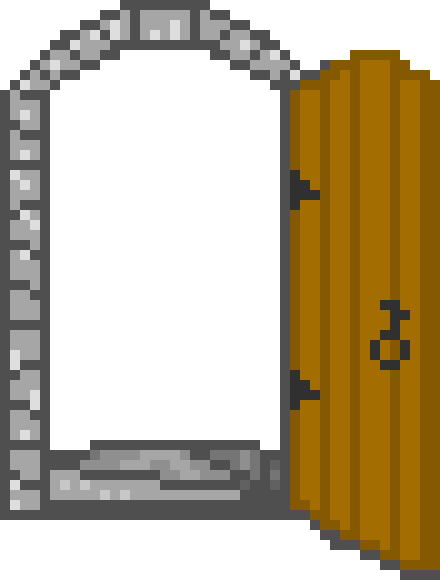
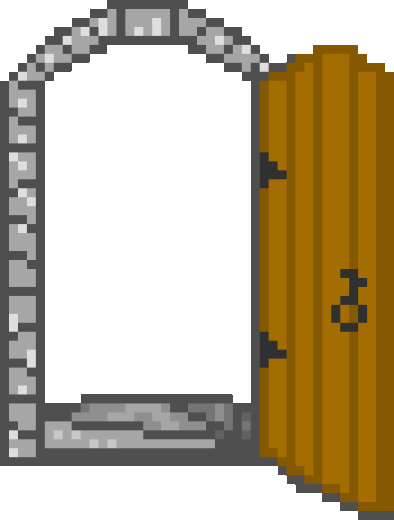
Basic transitions between levels have been implemented but must be improved.

diff --git a/classes/level.py b/classes/level.py
@@ -17,8 +17,9 @@ class Camera:
 
 class Level:
     # TODO implement camera scrolling from top to bottom of the self at the beginning
-    def __init__(self, walls: list[Block], moving_obj: list[MovingPlatform], decor: list[Decor],
-                 surface: pygame.Surface, start_pos: tuple[int, int]):
+    def __init__(self, num, walls: list[Block], moving_obj: list[MovingPlatform], decor: list[Decor],
+                 surface: pygame.Surface, start_pos: tuple[int, int], end_level: LevelEnd):
+        self.num = num
         self.blocks = walls
         self.moving_obj = moving_obj
         self.decor = decor
@@ -27,14 +28,19 @@ class Level:
         self.camera = Camera(surface)
         self.projectiles: list[Projectile] = []
         self.player = Player(*start_pos)
+        self.level_end = end_level
 
     def draw(self, surface: pygame.Surface):
         self.surf.fill('yellow')
-        self.player.draw(self.surf)
+
 
         for obj in self.blocks + self.moving_obj + self.projectiles + self.decor:
             obj.draw(self.surf)
+
+        self.level_end.draw(self.surf)
+        self.player.draw(self.surf)
         camera_surf = pygame.Surface(self.camera.display_size)
+        camera_surf.fill('yellow')
         camera_surf.set_colorkey('yellow')
         camera_surf.blit(self.surf, (0, 0), self.camera.scroll(self.player))
         surface.blit(pygame.transform.scale(camera_surf, (DISP_WIDTH, DISP_HEIGHT)), (0, 0))
@@ -60,7 +66,7 @@ class Level:
                 entity.rect.x = min(max(entity.rect.x, 0), self.surf.get_width() - self.player.rect.width)
                 entity.rect.y = min(max(entity.rect.y, 0), self.surf.get_height()- self.player.rect.height)
 
-    def game_cycle(self, surface: pygame.Surface, dt):
+    def game_cycle(self, surface: pygame.Surface, dt) -> bool:
 
         for event in pygame.event.get():
             if event.type == pygame.QUIT:
@@ -90,7 +96,12 @@ class Level:
         self.player.update(dt)
 
         self.clear()
+        return self.level_end.update(self.player)
 
     def clear(self):
         self.projectiles = list(filter(lambda i: not i.collided,
                                        self.projectiles))
+
+
+
+

diff --git a/scripts/map_generation.py b/scripts/map_generation.py
@@ -2,7 +2,8 @@ from classes.level import *
 from pytmx.util_pygame import load_pygame
 
 
-def gen_level(path: str) -> Level:
+def gen_level(num: int) -> Level:
+    path = 'level' + str(num)
     level_map = load_pygame(f'levels/{path}.tmx')
 
     obj_layer = level_map.get_layer_by_name('GameObjects')
@@ -12,27 +13,37 @@ def gen_level(path: str) -> Level:
     decor: list[Decor] = []
     moving_objs: list[MovingPlatform] = []
 
+    level_end: LevelEnd = None
     # Loading objects
     for obj in obj_layer:
+        print(obj.type, obj.name, obj.x, obj.y,obj.width, obj.height, obj.image)
         if obj.type == 'Marker':
             if obj.name == 'Player':
                 start_pos = (round(obj.x * SCALE), round(obj.y * SCALE))
 
         elif obj.type == 'Decor':
-            decor.append(Decor(round(obj.x * SCALE), round(obj.y * SCALE),
-                               pygame.transform.scale(obj.image, (obj.width, obj.height))))
+            decor.append(Decor(obj.x, obj.y,obj.width, obj.height, obj.image,))
+        #
+        # elif obj.type == 'Text':
+        #     print(obj.__dict__)
+        #     decor.append(Text(obj.x, obj.y, obj.width, obj.height, obj.image, ))
 
         elif obj.type == 'MovingPlatform':
             moving_objs.append(MovingPlatform(obj.x * SCALE, obj.y * SCALE, obj.width * SCALE,
                                               obj.height * SCALE, obj.typ, obj.dist, obj.speed))
 
+        elif obj.type == 'LevelEnd':
+            level_end = LevelEnd(obj.x, obj.y, obj.width, obj.height, obj.image)
+            print(level_end)
+
     surface = pygame.Surface((level_map.width * BLOCK_SIZE,
                               level_map.height * BLOCK_SIZE))
 
+    assert isinstance(level_end, LevelEnd), "No LevelEnd"
     # Loading blocks
     walls: list[Block] = []
     for x, y, surf in blocks.tiles():
         walls.append(Block(x, y, surf))
 
-    level = Level(walls, moving_objs, decor, surface, start_pos)
+    level = Level(num, walls, moving_objs, decor, surface, start_pos, level_end)
     return level

diff --git a/classes/surroundings.py b/classes/surroundings.py
@@ -79,14 +79,45 @@ class MovableBlock(Block):
     def check_walls(self, walls: list[Block]):
         pass
 
+class GameObject:
 
-class Decor:
+    sprites: dict[int, pygame.Surface] = {}
 
-    def __init__(self, x, y, surface: pygame.Surface):
-        width, height = surface.get_size()
-        self.surface = pygame.transform.scale(surface,
-                                              (width * SCALE, height * SCALE)).convert_alpha()
-        self.rect = surface.get_rect(topleft=(x, y))
+    def __init__(self, x, y, width, height, surface: pygame.Surface):
+        x, y, width, height = x * SCALE, y * SCALE, width * SCALE, height * SCALE
+        self.surface = pygame.transform.scale(surface, (width, height)).convert_alpha()
+        self.rect = self.surface.get_rect(topleft=(x, y))
 
     def draw(self, surface: pygame.Surface):
         surface.blit(self.surface, self.rect)
+
+class Decor(GameObject):
+    pass
+
+
+class Text(Decor):
+    pass
+
+
+class LevelEnd(GameObject):
+
+    sprites = {0: 'resources/images/surrounding/door_closed.png',
+               1: 'resources/images/surrounding/door_open.png'}
+
+    def __init__(self, x, y, width, height, surface: pygame.Surface):
+        super().__init__(x, y, width, height, surface)
+        self.active_zone = pygame.Rect(self.rect.x - self.rect.width,
+                                       self.rect.y - self.rect.height,
+                                       self.rect.width * 2, self.rect.height * 2)
+        self.active = False
+
+    def update(self, player: Player) -> bool:
+        self.active = 0
+        if player.rect.colliderect(self.active_zone):
+            print('active')
+            self.active = 1
+            for event in pygame.event.get():
+                if event.type == pygame.KEYDOWN and event.key == pygame.K_o:
+                    return True
+        return False
+

diff --git a/main.py b/main.py
@@ -9,7 +9,7 @@ tick = 0
 
 drawing = Drawing(display)
 
-level = gen_level('level2')
+level = gen_level(1)
 
 
 while True:
@@ -17,7 +17,9 @@ while True:
 
     drawing.background()
 
-    level.game_cycle(display, delta)
+    end_level = level.game_cycle(display, delta)
+    if end_level:
+        level = gen_level(level.num + 1)
 
     pygame.display.update()
 
